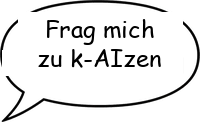
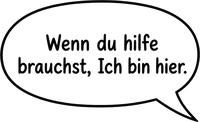
chatbot: lena rechts+unten verschoben, alte mönch-bubbles wieder rein
- monk-top.png: Lena +20% rechts (offset_x=155), +10% runter (offset_y=19)
  → Lena steht rechts-versetzt, mehr Körper sichtbar, taucht weniger
  über den chat-rand hinaus
- bubble-welcome.png + bubble-help.png: Original-Mönch-Bubbles
  wiederhergestellt (Tail unten-rechts)
- CSS angepasst: bubble jetzt links-oberhalb (right: 30%),
  transform-origin: bottom right
- Cache-buster v3

diff --git a/public/widgets/chatbot.js b/public/widgets/chatbot.js
@@ -75,19 +75,19 @@
         position: relative;
       }
 
-      /* Sprech-Blasen — rechts oberhalb von Lena.
-         Tail unten-links der Bubble zeigt nach unten-links auf Lena's Kopf. */
+      /* Sprech-Blasen — links oberhalb von Lena (alte Bubbles, Tail unten-rechts).
+         Lena steht rechts-versetzt im PNG, Bubble links über ihr. */
       .kbot-bubble {
         position: absolute;
         bottom: 100%;      /* bubble komplett oberhalb root */
         margin-bottom: -10px; /* leichter overlap nach unten */
-        left: 55%;         /* tail-Anchor rechts der Lena-Mitte → bubble extends nach rechts */
+        right: 30%;       /* tail-Anchor links der Lena → bubble extends nach links */
         width: 160px;
         height: auto;
         pointer-events: none;
         opacity: 0;
         transform: translateY(8px) scale(0.92);
-        transform-origin: bottom left;
+        transform-origin: bottom right;
         transition:
           opacity 380ms cubic-bezier(0.22, 1, 0.36, 1),
           transform 380ms cubic-bezier(0.22, 1, 0.36, 1);
@@ -327,8 +327,8 @@
         .kbot-bubble {
           width: 130px !important;
           bottom: 92% !important;
-          left: 50% !important;
-          right: auto !important;
+          right: 50% !important;
+          left: auto !important;
         }
       }
     `;
@@ -340,8 +340,8 @@
     root.id = 'kaizen-bot-root';
     root.innerHTML = `
       <div class="kbot-handle" id="kbot-handle" role="button" tabindex="0" aria-label="Chat öffnen">
-        <img class="kbot-bubble kbot-bubble-welcome" src="/widgets/bubble-welcome.png?v=20260528-younglena-v2" alt="" />
-        <img class="kbot-bubble kbot-bubble-help" src="/widgets/bubble-help.png?v=20260528-younglena-v2" alt="" />
+        <img class="kbot-bubble kbot-bubble-welcome" src="/widgets/bubble-welcome.png?v=20260528-younglena-v3" alt="" />
+        <img class="kbot-bubble kbot-bubble-help" src="/widgets/bubble-help.png?v=20260528-younglena-v3" alt="" />
         <span class="kbot-monk-wrap">
           <img class="kbot-monk-top" src="/widgets/monk-top.png" alt="" />
         </span>